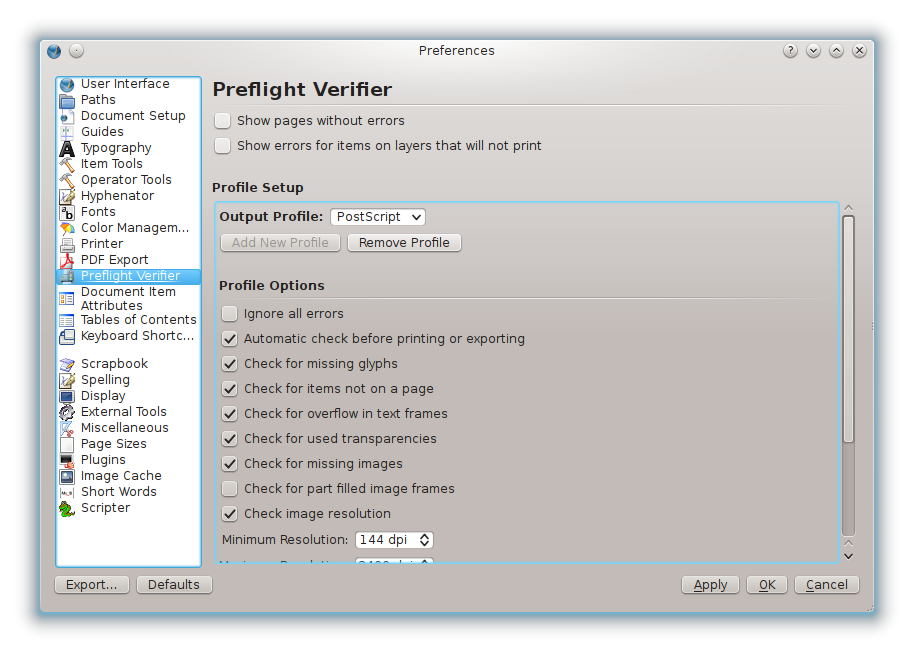
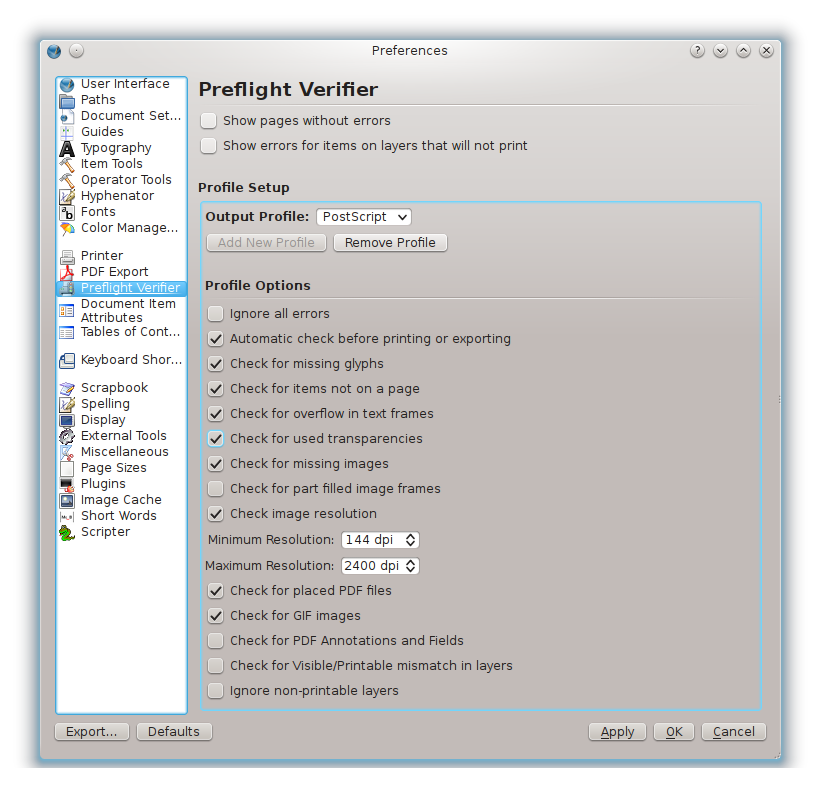
improved image prefs_preflight.png, print2.html
git-svn-id: svn://scribus.net/trunk/Scribus@17594 11d20701-8431-0410-a711-e3c959e3b870

Changed region(s): [[0.0305, 0.0307, 0.9744, 0.9816]]

diff --git a/doc/en/print2.html b/doc/en/print2.html
@@ -23,7 +23,9 @@
 <table width="100%"><tr><td align="center"><img src="images/prefs_preflight.png"></td></tr></table>
 <p>The options in this panel are as follows:</p>
 <ul>
-<li><b>File Type (drop-down list):</b> Here you can select which print/export filetype&rsquo;s potential issues Scribus will check for by default.</li>
+<li><b>Show pages without errors:</b> When checked, lists all pages in the output, not just those with errors.</li>
+<li><b>Show errors for items on layers that will not print:</b> Self-explanatory.</li>
+<li><b>Output Profile (drop-down list):</b> Here you can select which print/export filetype&rsquo;s potential issues Scribus will check for by default.</li>
 <li><b>Ignore all errors:</b> From what you have read before, you can hopefully conclude that you would be ill-advised to check this option – an error discovered <i>after</i> a commercial print-run could prove to be costly. </li>
 <li><b>Automatic check before printing or exporting:</b> Having this option active means that the Preflight Verifier will not only be launched intentionally by you via the Menu Bar, but also automatically when you want to print or to export PostScript or PDF files and in case an error has been detected.</li>
 <li><b>Check for missing glyphs:</b> This option will let Scribus check for missing glyphs in a font. <i>Do not underestimate the importance of this option</i>, as a simple change of a font, e.g. via a style sheet or direct formatting, can result in text using glyphs that aren&rsquo;t available in the new font.</li>
@@ -31,12 +33,13 @@
 <li><b>Check of overflow in text frames:</b> As an avid reader of this Online Help you know for sure that working with Scribus is mostly <a href="WwFrames.html">frame-based</a>, and of course you are also aware of the <a href="WwText.html">necessity</a> to either reduce the font size or to enlarge a text frame or to link to a subsequent frame if the text doesn&rsquo;t fit into a particular frame. Similar to the &ldquo;missing glyphs&rdquo; issue, one of the likely issues that may ruin or devaluate your costly print is the change of a font, since the glyph widths change from font to font. In some cases, even using the same font on different platforms or even the same font on the same computer may result in a text overflow, as the update may have installed a new version of a font file with different font metrics.</li>
 <li><b>Check for used transparencies:</b> The PostScript file format doesn&rsquo;t support transparency, and neither does the PDF 1.3 specification, which is still supported by Scribus. Since PDF/X-3 is also based on PDF 1.3, you only need this option active for the three previously mentioned export/print destinations.</li>
 <li><b>Check for missing images:</b> Scribus doesn&rsquo;t store bitmap images in its own file format; it only creates links to files in one of the <a href="importhints.html">supported bitmap formats</a>. Since it can easily happen that users save an image under a different name, another file format or another location, the link to the image may become a &ldquo;dead link&rdquo;, i.e. the <a href="WwImages.html">image frame</a> will be empty, an issue that can be easily overlooked. This option lets Scribus detect such dead links.</li>
+<li><b>Check for part filled image frames:</b> If your image frame has a background color, or has a visible border, this may be important to check for.</li>
 <li><b>Check image resolution:</b> As an enlightened reader you already <a href="importhints.html">know</a> that the resolution of bitmap images can be critical to the success of a print run &ndash; if the resolution is too low, images will look awful when printed, and if the resolution is too high, the file size of an exported PostScript or PDF file may be too large to be handled by a commercial Raster Image Processor (RIP). This option will let Scribus check whether the resolution of an image is too high or low for a certain output destination. As you can see, you can change the limits in both directions, but keep in mind that the default values make sense in most cases.</li>
 <li><b>Check for placed PDF files:</b> Scribus can import PDF files into image frames via <a href="toolbox5.html">Ghostscript</a>. However, since Scribus lets Ghostscript &ldquo;rasterize&rdquo; (i.e.: create a bitmap image of) an imported PDF file, you may not like the result. Moreover, the quality of the file import depends on the Ghostscript version you have installed. Hence the option to let Scribus check for placed PDF files, which is especially useful if you exchange Scribus files between computers with different Ghostscript versions installed.</li>
 <li><b>Check for GIF images:</b> You already <a href="importhints.html">learned</a> that GIF files have no place in professional printing, but while you know this, you may still receive a ZIP-archive from others with a Scribus file and related images, some of which may very well be GIFs. So while the GIF threat need not be imminent, it doesn&rsquo;t hurt to leave the check mark where it is by default.</li>
 <li><b>Check for PDF Annotations and Fields:</b> PDF files that contain Annotations and Fields will be rejected by every commercial Raster Image Processor (RIP), so if you want to create a print-ready PDF file, you are advised to have this option active.</li>
-<li><b>Ignore non-printable layers:</b> This option will help you to only export the layers that are marked as &ldquo;printable&rdquo;, which is especially helpful if you created a file with <a href="layers.html">language-specific layers</a>. </li>
 <li><b>Check for Visible/Printable Mismatch in Layers:</b> The possibility to make a layer invisible during the process of designing is very helpful, but forgetting to switch on visibility again may result in a PostScript or PDF file with missing elements. The reverse can also happen: You may create a document with multiple layers for different languages or different color patterns. This option will let Scribus investigate whether a visible layer is also &ldquo;printable&rdquo;, and in this context &ldquo;printable&rdquo; also means that the layer or its content will be exported.</li>
+<li><b>Ignore non-printable layers:</b> This option will help you to only export the layers that are marked as &ldquo;printable&rdquo;, which is especially helpful if you created a file with <a href="layers.html">language-specific layers</a>. </li>
 </ul>
 <h3>The Print Preview</h3>
 <p>As mentioned in the previous section, one of the challenges of using an advanced DTP application like Scribus is handling &ldquo;high-level&rdquo; PostScript output. If you happen to be able to use a real PostScript printer (which won&rsquo;t be a device that&rsquo;s as small as your photo printer), you may start to appreciate some of Scribus&rsquo;s PostScript/printing features. Let&rsquo;s have a closer look at the Print Preview, which can be called via <i>File > Print Preview</i>.</p>
